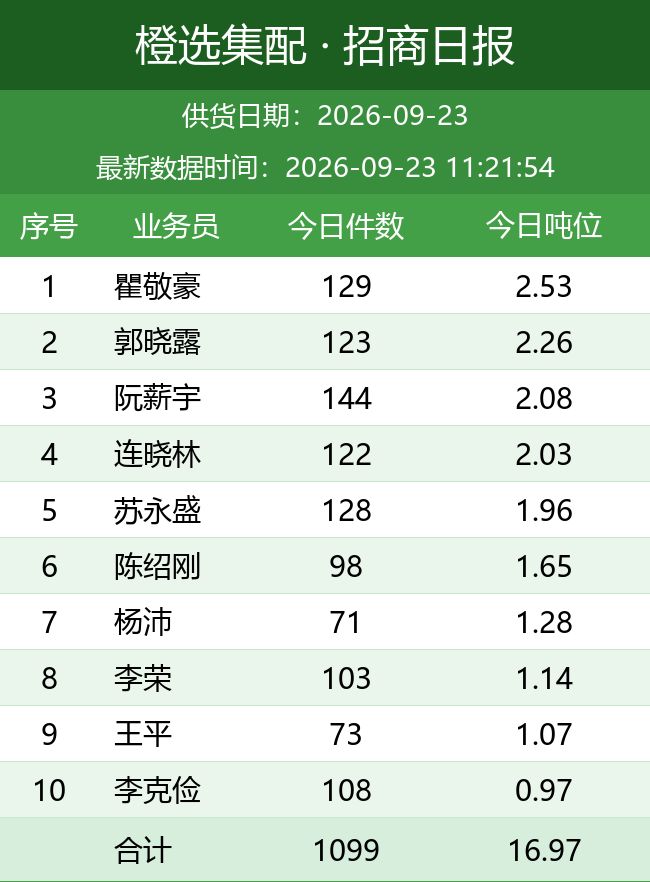
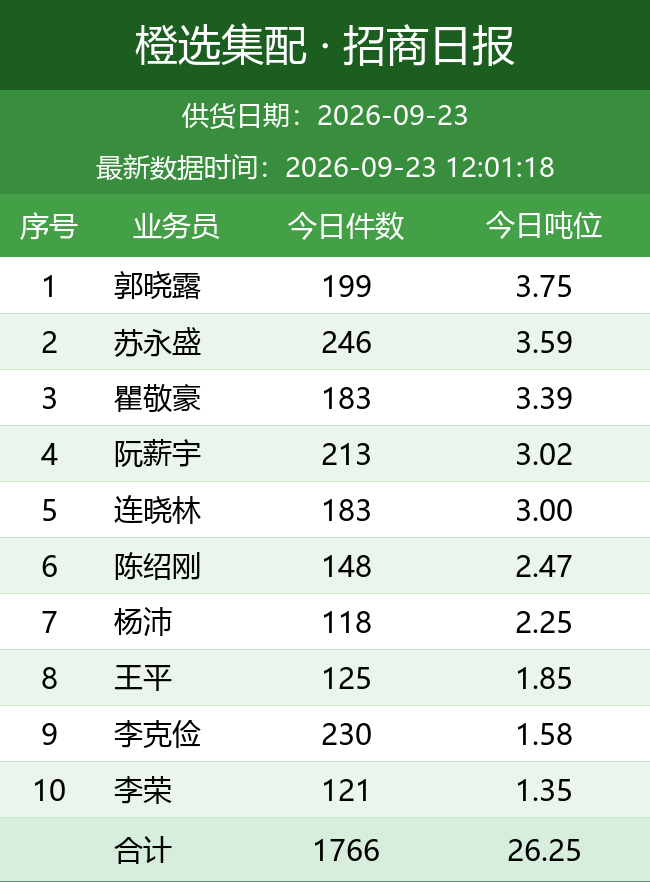
自动更新日报图片

diff --git a/daily_report/index.html b/daily_report/index.html
@@ -11,7 +11,7 @@ img { max-width: 100%; border: 1px solid #e5e5e5; margin-bottom: 24px; display: 
 </style>
 </head>
 <body>
-<h1>橙选集配日报图片（20260923_112339）</h1>
+<h1>橙选集配日报图片（20260923_120256）</h1>
 <img src="bd_latest.png" alt="BD 日报">
 <img src="wh_latest.png" alt="城市仓日报">
 <img src="zs_latest.png" alt="招商日报">
